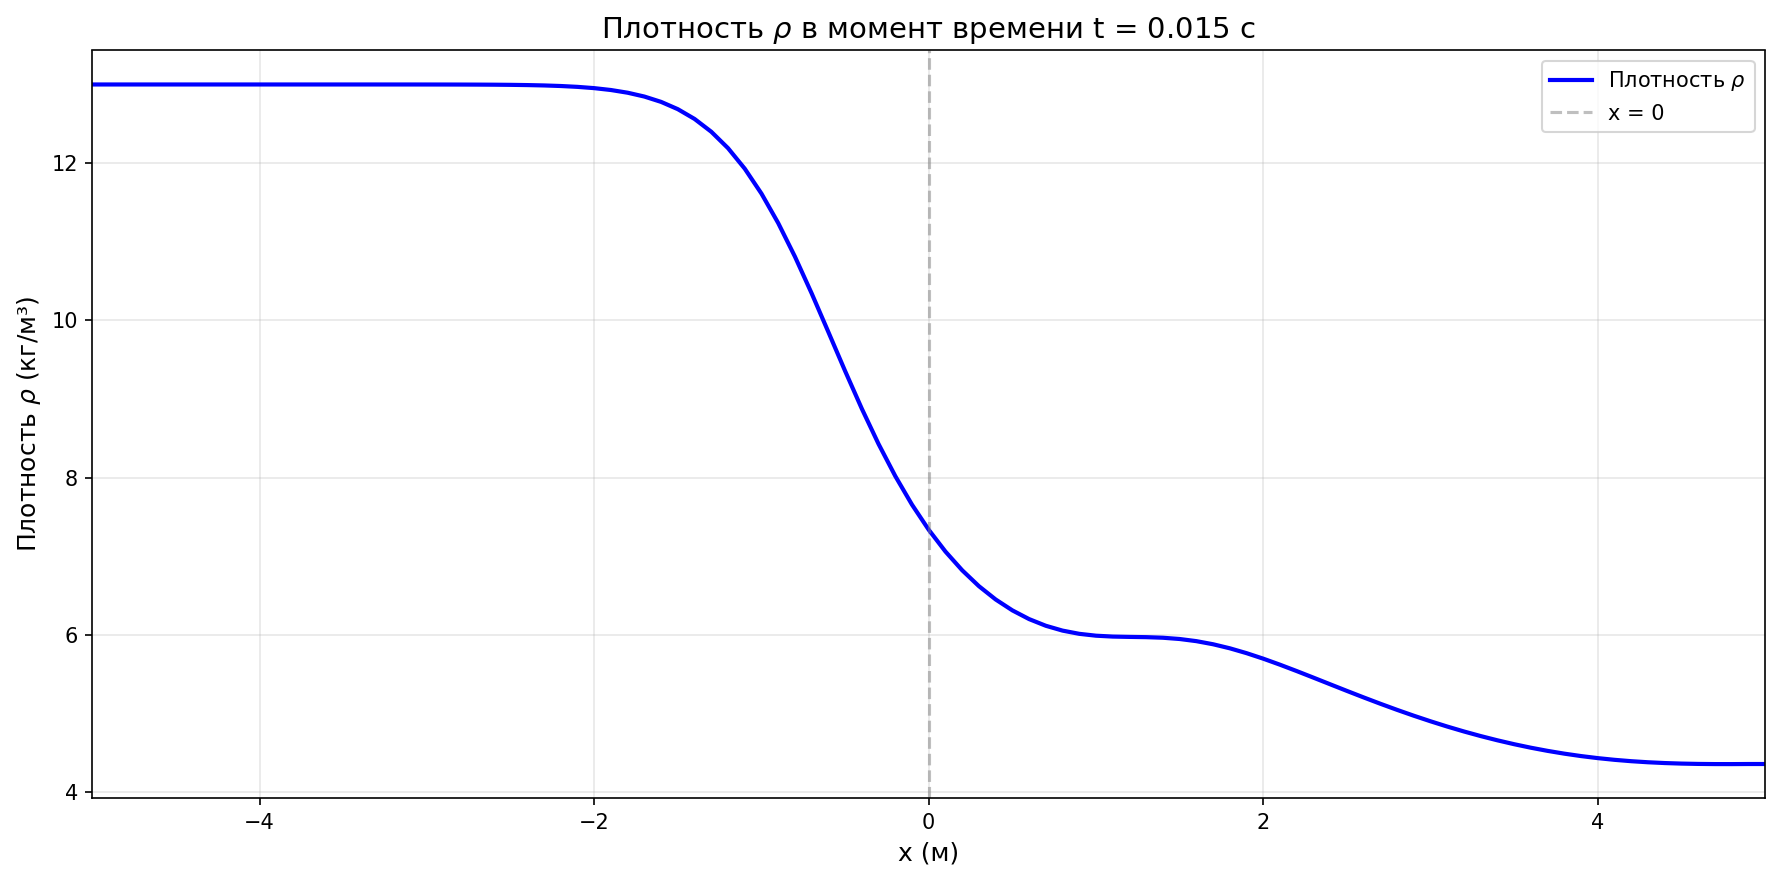
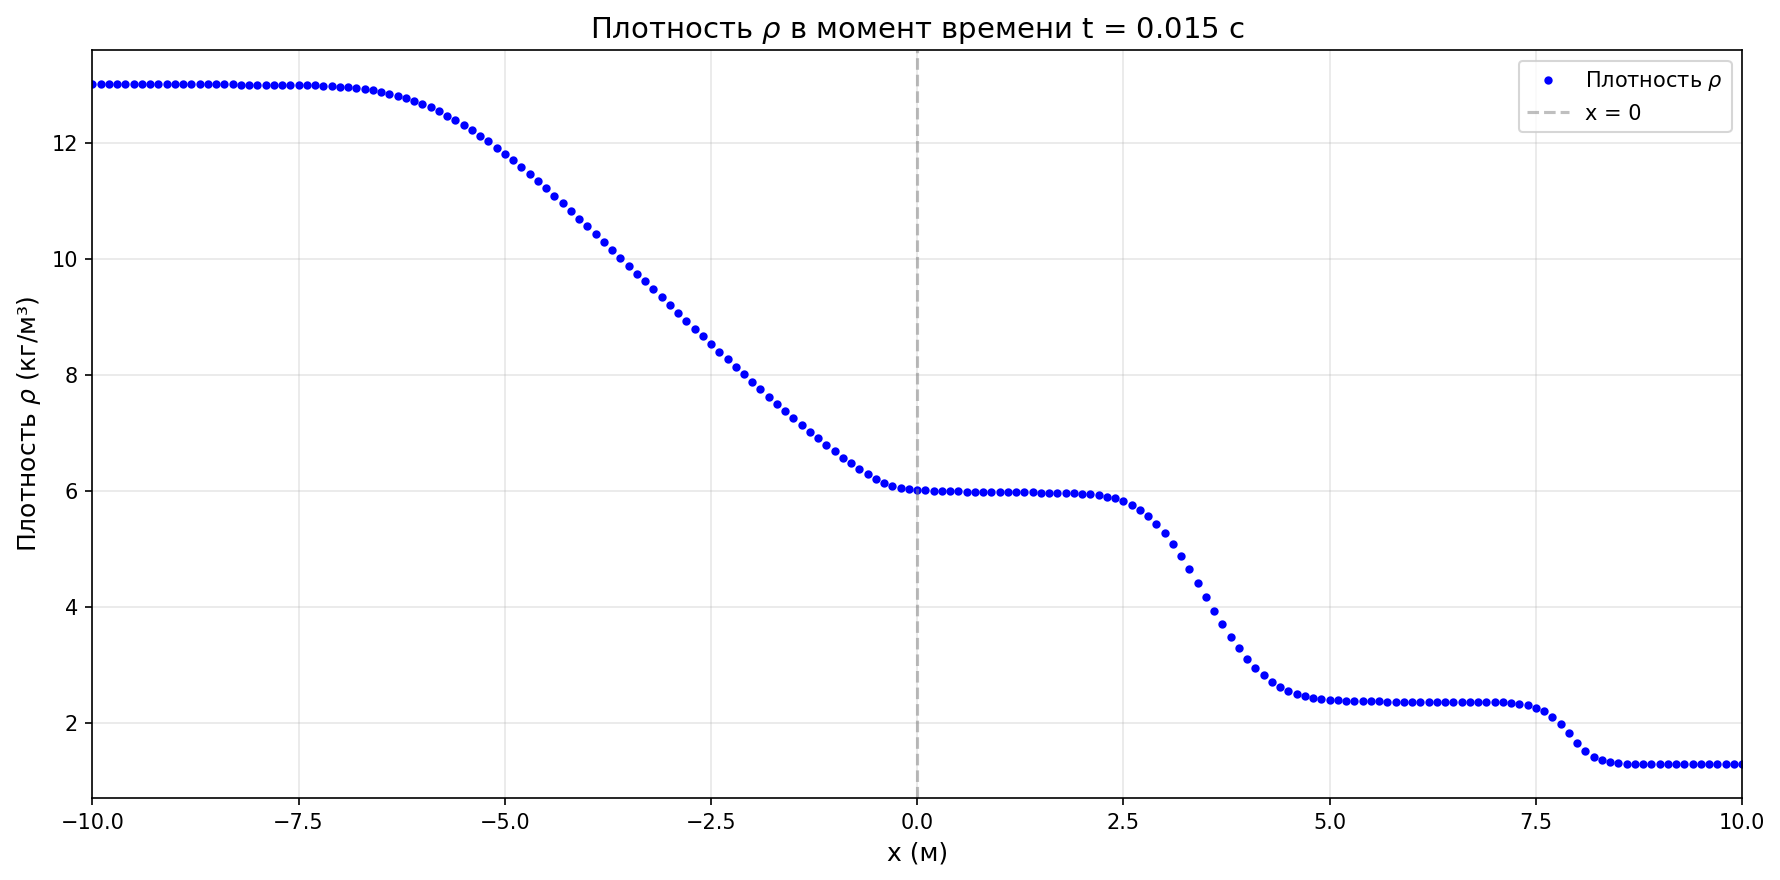
Довёл решение до конца, с примером совпадает

diff --git a/comp-math/task.2/main.cpp b/comp-math/task.2/main.cpp
@@ -6,25 +6,23 @@
 #include "state.h"
 
 int main() {
-    int count = 0;
     int L = 10;
     double T = 0.015;
     double gamma = 5.0 / 3.0;
-    double h = 0.1;       // шаг по пространству
-    double t_init = 10e-7;     // шаг по времени
+    double h = 0.1;             // шаг по пространству
+    double t_init = 10e-7;      // шаг по времени
     double t = t_init;
-    double CFL_max = 0.01;     // число Куранта меньше 0.01 для устойчивости
+    double CFL_max = 0.01;      // число Куранта меньше 0.01 для устойчивости
 
     state left_state = {0.0, 13.0, 10e5, 0.0};
     state right_state = {0.0, 1.3, 1e5, 0.0};
 
-    grid2d grid_rho(L, T, h, t_init);
-    grid2d grid_u(L, T, h, t_init);
-    grid2d grid_e(L, T, h, t_init);
-    grid2d grid_p(L, T, h, t_init);
+    grid2d grid_rho(2 * L, T, h, t_init);
+    grid2d grid_u(2 * L, T, h, t_init);
+    grid2d grid_e(2 * L, T, h, t_init);
+    grid2d grid_p(2 * L, T, h, t_init);
 
     int nx = static_cast<int>(grid_rho.get_nx());
-    int ny = static_cast<int>(grid_rho.get_ny());
 
     std::vector<state> variables;
     variables.resize(nx);
@@ -32,7 +30,7 @@ int main() {
     w.resize(nx, std::vector<double>(3, 0.0));
 
     for (int i = 0; i < nx; i++) {
-        double x = i * h - L / 2.0;
+        double x = i * h - L;
         if (x < 0) {
             variables[i] = left_state;
         } else {
@@ -48,20 +46,20 @@ int main() {
     }
 
     double time = 0.0;
-    int ind_time = 0;
-
     while (time < T) {
-//    for (int s = 0; s < 10000; s++) {
-        count += 1;
         std::cout << time << '\n';
 
         double max_lambda = 0.0;
         for (int i = 0; i < nx; i++) {
-            max_lambda = std::max(max_lambda, std::max(variables[i].u + variables[i].calculete_c(gamma),
-                                  variables[i].u - variables[i].calculete_c(gamma)));
+            double c = variables[i].calculete_c(gamma);
+            double u = variables[i].u;
+            double lambda_1 = std::abs(u + c);
+            double lambda_2 = std::abs(u - c);
+            double lambda_3 = std::abs(u);
+            max_lambda = std::max(max_lambda, std::max(std::max(lambda_1, lambda_2), lambda_3));
         }
 
-        t = 10e-7;
+        t = t_init;
         double CFL = t * max_lambda / h;
         while (CFL > CFL_max) {
             t /= 2.0;
@@ -73,29 +71,25 @@ int main() {
         for (int i = 1; i < nx - 1; i++) {
             double u = variables[i].u;
             double c = variables[i].calculete_c(gamma);
+            double e = variables[i].e;
 
             std::vector<double> omega_data = {
-                    -u * c, c, gamma - 1,
-                    -c * c, 0, gamma - 1,
-                    u * c, -c, gamma - 1
+                    -u * c, c, gamma - 1.0,
+                    -c * c, 0.0, gamma - 1.0,
+                    u * c, -c, gamma - 1.0
             };
             matrix OmegaT = matrix(3, 3, omega_data);
 
-            omega_data = {
-                    1 / (2 * c * c), -2 / (2 * c * c), 1 / (2 * c * c),
-                    (u + c) / (2 * c * c), -2 * u / (2 * c * c), (u - c) / (2 * c * c),
-                    1 / (2 * (gamma - 1)), 0, 1 / (2 * (gamma - 1)),
-            };
-            matrix OmegaT_inv = matrix(3, 3, omega_data);
+            matrix OmegaT_inv = OmegaT.inverse();
 
             std::vector<double> lambda_data = {
-                    u - c, 0, 0,
-                    0, u, 0,
-                    0, 0, u + c
+                    u + c, 0.0, 0.0,
+                    0.0, u, 0.0,
+                    0.0, 0.0, u - c,
             };
             matrix Lambda = matrix(3, 3, lambda_data);
 
-            matrix A = OmegaT.inverse() * Lambda * OmegaT;
+            matrix A = OmegaT.inverse() * (Lambda * OmegaT);
 
             std::vector<double> grad_one(3, 0.0);
             std::vector<double> grad_two(3, 0.0);
@@ -104,9 +98,7 @@ int main() {
                 grad_one[k] = (w_old[i + 1][k] - w_old[i - 1][k]) / (2.0 * h);
                 grad_two[k] = (w_old[i + 1][k] - 2.0 * w_old[i][k] + w_old[i - 1][k]) / (2.0 * h);
             }
-//            matrix OmegaT_inv = OmegaT.inverse();
-            matrix AbsLambda = Lambda.abs();
-            matrix D = OmegaT_inv * AbsLambda * OmegaT;
+            matrix D = OmegaT_inv * Lambda.abs() * OmegaT;
             std::vector<double> A_grad = A * grad_one;
             std::vector<double> D_grad = D * grad_two;
 
@@ -126,19 +118,14 @@ int main() {
             w[nx - 1][k] = w[nx - 2][k];
         }
         time += t;
-//        grid_rho.add_time_layer(time);
-//        grid_u.add_time_layer(time);
-//        grid_p.add_time_layer(time);
-//        grid_e.add_time_layer(time);
         for (int i = 0; i < nx; i++) {
             grid_rho.set_value(i, 0, variables[i].rho);
             grid_u.set_value(i, 0, variables[i].u);
             grid_p.set_value(i, 0, variables[i].p);
             grid_e.set_value(i, 0, variables[i].e);
-//            grid_e.set_value(i, grid_rho.get_ny() - 1, variables[i].e);
         }
         if (T - time < 10e-12) {
-            std::cout << "Break" << ' ' << count << '\n';
+            std::cout << "Break" << '\n';
             break;
         }
     }
@@ -150,4 +137,3 @@ int main() {
 
     return 0;
 }
-

diff --git a/comp-math/task.2/algebra.cpp b/comp-math/task.2/algebra.cpp
@@ -29,6 +29,10 @@ int matrix::get_y_size() const {
     return this->y_size;
 }
 
+double matrix::get_content(int i, int j) const {
+    return this->content[j][i];
+}
+
 matrix matrix::transposition() {
     std::vector<double> t_content(x_size * y_size);
     for (int j = 0; j < this->y_size; j++) {
@@ -48,15 +52,15 @@ matrix matrix::inverse() const {
         double a11 = this->content[0][0], a12 = this->content[0][1], a13 = this->content[0][2],
                 a21 = this->content[1][0], a22 = this->content[1][1], a23 = this->content[1][2],
                 a31 = this->content[2][0], a32 = this->content[2][1], a33 = this->content[2][2];
-        double det = a11 * (a22 * a33 - a32 * a23) - a21 * (a12 * a33 - a32 * a13) + a31 * (a12 * a23 - a22 * a13);
+        double det = a11 * (a22 * a33 - a32 * a23) - a12 * (a21 * a33 - a23 * a31) + a13 * (a21 * a32 - a22 * a31);
 
         if (std::abs(det) < 1e-12) {
             std::cout << "Error: detA = 0" << '\n';
             return matrix(this->x_size, this->y_size);
         } else {
             new_content[0] = +(a22 * a33 - a32 * a23);
-            new_content[1] = -(a12 * a33 - a32 * a13);
-            new_content[2] = +(a12 * a23 - a22 * a13);
+            new_content[1] = -(a21 * a33 - a23 * a31);
+            new_content[2] = +(a21 * a32 - a22 * a31);
 
             new_content[3] = -(a12 * a33 - a13 * a32);
             new_content[4] = +(a11 * a33 - a13 * a31);
@@ -74,7 +78,7 @@ matrix matrix::inverse() const {
     }
 }
 
-double& matrix::operator()(int i, int j) {
+double &matrix::operator()(int i, int j) {
     if (i >= this->x_size or j >= this->y_size) {
         std::cout << "Matrix size error" << '\n';
     } else {

diff --git a/comp-math/task.2/processing.py b/comp-math/task.2/processing.py
@@ -1,14 +1,13 @@
 import numpy as np
 import matplotlib.pyplot as plt
-import os
 
 
-def plot_at_time(variable_name, target_time, L=10.0, save_fig=True):
+def plot_at_time(variable_name, target_time, L=10.0):
     data_file = f'data/{variable_name}.csv'
     data = np.genfromtxt(data_file, delimiter=',', skip_header=0)
 
     y_coord = data[1:]
-    x_coord = np.linspace(-L/2, L/2, y_coord.size)
+    x_coord = np.linspace(-L, L, y_coord.size)
 
     fig, ax = plt.subplots(figsize=(12, 6))
 
@@ -21,7 +20,7 @@ def plot_at_time(variable_name, target_time, L=10.0, save_fig=True):
 
     title_ru, units, title_en = titles.get(variable_name, ('Value', '', 'value'))
 
-    ax.plot(x_coord, y_coord, 'b-', linewidth=2, label=f'{title_ru}')
+    ax.plot(x_coord, y_coord, 'b.', linewidth=2, label=f'{title_ru}')
     ax.set_xlabel('x (м)', fontsize=12)
     ax.set_ylabel(f'{title_ru} {units}', fontsize=12)
     ax.set_title(f'{title_ru} в момент времени t = {target_time} с', fontsize=14)
@@ -36,10 +35,8 @@ def plot_at_time(variable_name, target_time, L=10.0, save_fig=True):
     ax.set_ylim(y_min - margin, y_max + margin)
 
     plt.tight_layout()
-
-    if save_fig:
-        output_file = f'results/plot_{variable_name}_t={target_time}.png'
-        plt.savefig(output_file, dpi=150, bbox_inches='tight')
+    output_file = f'results/plot_{variable_name}_t={target_time}.png'
+    plt.savefig(output_file, dpi=150, bbox_inches='tight')
 
 
 if __name__ == "__main__":

diff --git a/comp-math/task.2/algebra.h b/comp-math/task.2/algebra.h
@@ -22,6 +22,8 @@ public:
 
     int get_y_size() const;
 
+    double get_content(int i, int j) const;
+
     matrix transposition();
 
     matrix inverse() const;
